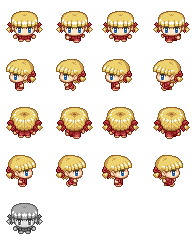
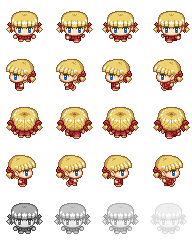
Add death animation and new bot image

diff --git a/js/Player.js b/js/Player.js
@@ -71,7 +71,7 @@ class Player {
                 left: [4, 7, 'left', 0.1],
                 up: [8, 11, 'up', 0.1],
                 right: [12, 15, 'right', 0.1],
-                dead: [16, 16, 'dead', 0.1]
+                dead: [16, 19, 'dead', 0.1]
             }
         });
         this.bmp = new createjs.Sprite(spriteSheet);
@@ -299,7 +299,7 @@ class Player {
             var bomb = bombs[i];
             for (var j = 0; j < bomb.fires.length; j++) {
                 var fire = bomb.fires[j];
-                var collision = bomb.exploded && fire.position.x == this.position.x && fire.position.y == this.position.y;
+                var collision = bomb.exploded && fire.position.x === this.position.x && fire.position.y === this.position.y;
                 if (collision) {
                     return true;
                 }
@@ -346,13 +346,15 @@ class Player {
     die() {
         this.alive = false;
 
-        if (gGameEngine.countPlayersAlive() == 1 && gGameEngine.playersCount == 2) {
+        if (gGameEngine.countPlayersAlive() === 1 && gGameEngine.playersCount === 2) {
             gGameEngine.gameOver('win');
-        } else if (gGameEngine.countPlayersAlive() == 0) {
+        } else if (gGameEngine.countPlayersAlive() === 0) {
             gGameEngine.gameOver('lose');
         }
 
+        // Start dead animation
         this.bmp.gotoAndPlay('dead');
+        // Hides the image after some time
         this.fade();
     }
 
@@ -362,13 +364,10 @@ class Player {
         var fade = setInterval(function() {
             timer++;
 
-            if (timer > 30) {
-                bmp.alpha -= 0.05;
-            }
-            if (bmp.alpha <= 0) {
+            if (timer > 20) {
+                bmp.alpha = 0;
                 clearInterval(fade);
             }
-
         }, 30);
     }
 }

diff --git a/js/GameEngine.js b/js/GameEngine.js
@@ -19,6 +19,7 @@ class GameEngine {
     currentLevel = null;
 
     playerBoyImg = null;
+    playerBoyImg2 = null;
     playerGirlImg = null;
     playerGirl2Img = null;
     bombImg = null;
@@ -53,6 +54,7 @@ class GameEngine {
 
         queue.addEventListener("complete", function() {
             that.playerBoyImg = queue.getResult("playerBoy");
+            that.playerBoy2Img = queue.getResult("playerBoy2");
             that.playerGirlImg = queue.getResult("playerGirl");
             that.playerGirl2Img = queue.getResult("playerGirl2");
             that.bombImg = queue.getResult("bomb");
@@ -72,6 +74,7 @@ class GameEngine {
 
         var manifest = [
             {id: "playerBoy", src: "static/img/george.png"},
+            {id: "playerBoy2", src: "static/img/george2.png"},
             {id: "playerGirl", src: "static/img/betty.png"},
             {id: "playerGirl2", src: "static/img/betty2.png"},
             {id: "bomb", src: "static/img/bomb.png"},
@@ -278,6 +281,7 @@ class GameEngine {
         this.bots = [];
 
         var botImg = gGameEngine.playerBoyImg;
+        var botImg2 = gGameEngine.playerBoy2Img;
 
         if (this.botsCount >= 1) {
             var bot2 = new Bot({ x: 1, y: this.tilesY - 2 }, null, null, botImg);
@@ -285,7 +289,7 @@ class GameEngine {
         }
 
         if (this.botsCount >= 2) {
-            var bot3 = new Bot({ x: this.tilesX - 2, y: 1 }, null, null, botImg);
+            var bot3 = new Bot({ x: this.tilesX - 2, y: 1 }, null, null, botImg2);
             this.bots.push(bot3);
         }
 
